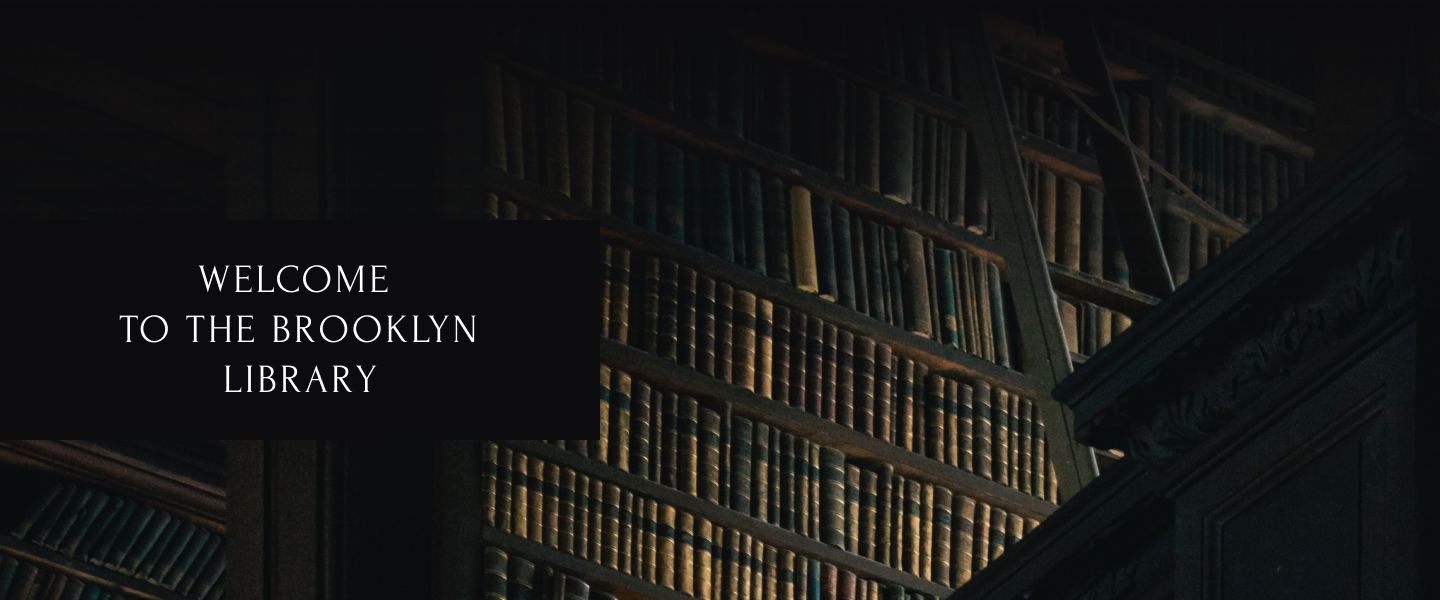
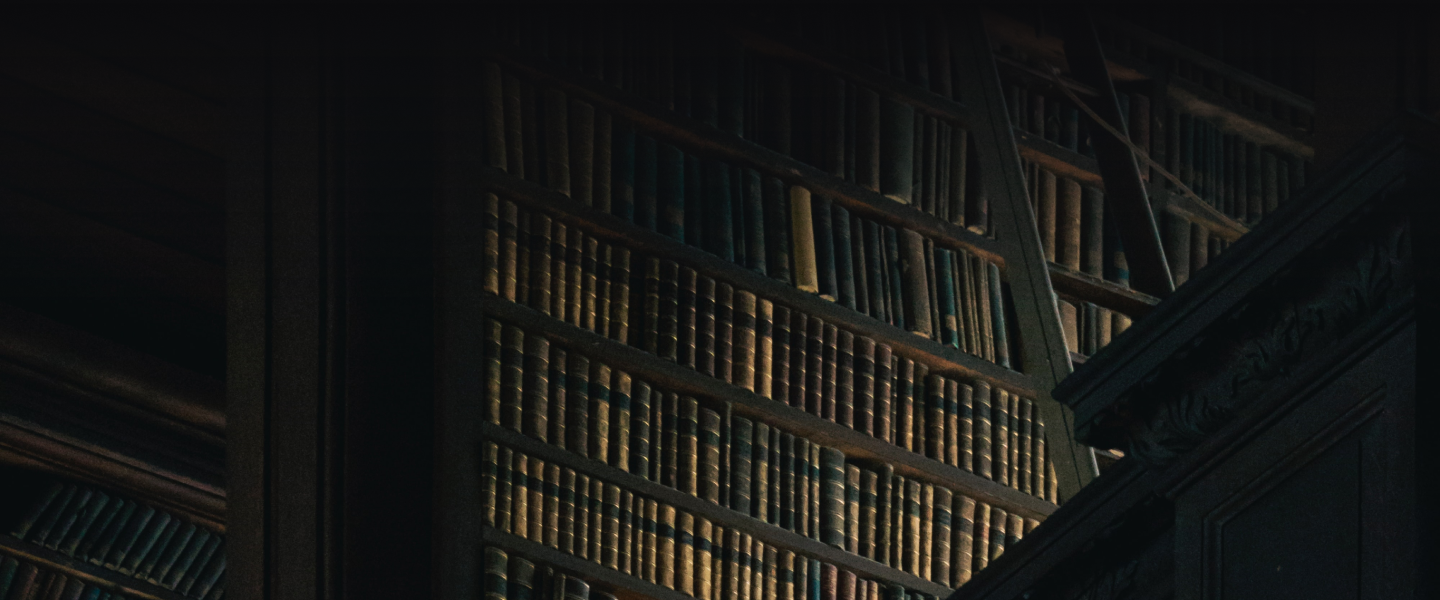
feat: add section welcome and modified section head

diff --git a/library/index.html b/library/index.html
@@ -8,34 +8,33 @@
   </head>
   <body>
     <header class="header">
-      <div class="container header">
-        <div class="brooklyn">Brooklyn Public Library</div>
+      <div class="container header-container">
+        <h1 class="brooklyn">Brooklyn Public Library</h1>
         <div class="navigation">
           <nav class="nav">
             <ul class="nav-list">
-              <li>About</li>
-              <li>Favorites</li>
-              <li>Coffee shop</li>
-              <li>Contacts</li>
-              <li>Library Card</li>
-              <li>
-                <a href="/">
-                  <img src="./assets/svg/icon_profile.svg" alt="" />
-                </a>
-              </li>
+              <li class="items">About</li>
+              <li class="items">Favorites</li>
+              <li class="items">Coffee shop</li>
+              <li class="items">Contacts</li>
+              <li class="items">Library Card</li>
             </ul>
           </nav>
+
+          <a class="icons" href="/">
+            <img src="./assets/svg/icon_profile.svg" alt="" />
+          </a>
         </div>
       </div>
     </header>
     <main class="main">
-		<div class="container main">
-			<section class="welcome">
-				<img src="./assets/img/Welcome.png" alt="">
-			</section>
-			<section class="about"></section>
-		</div>
-	</main>
+      <div class="container main-container">
+        <section class="welcome">
+          <div class="welcome-brooklyn">Welcome <br> to the Brooklyn <br> Library</div>
+        </section>
+        <section class="about"></section>
+      </div>
+    </main>
     <footer></footer>
   </body>
 </html>

diff --git a/library/style.css b/library/style.css
@@ -3,32 +3,78 @@ body {
   padding: 0px;
 }
 
-.brooklyn {
-  padding: 20px 454px 20px 20px;
-  font-size: 30px;
-
-}
-
-.header {
-  background-color: #0c0c0e;
-  color: #ffffff;
- 
-}
 .container {
   max-width: 1440px;
   margin: 0 auto;
 }
 
-
-.nav {
-  /* display: block; */
-  /* padding: 20px 0 20px 0; */
+.header {
+  background-color: #0c0c0e;
+  color: #ffffff;
 }
 
+.header-container {
+  display: flex;
+  justify-content: space-between;
+  line-height: 30px;
+}
+
+.brooklyn {
+  font-size: 30px;
+  margin: 20px 0px 20px 20px;
+  flex: 0 1 50%;
+}
+
+.navigation {
+  display: flex;
+  flex: 0 1 50%;
+}
+.nav{
+	margin-right: 40px;
+}
 .nav-list {
   display: flex;
-  justify-content: flex-end;
+  /* justify-content: flex-end; */
   align-items: center;
   list-style: none;
   font-size: 20px;
+  gap: 30px;
+}
+
+.items:hover {
+  text-decoration: underline;
+  cursor: pointer;
+}
+
+.icons {
+  margin: 20px 31px 20px 0px;
+  
+}
+
+/* .items:nth-child(6){
+	margin-left: 10px;
+	margin-right: 31px;
+	
+} */
+
+
+.welcome{
+	background: url("./assets/img/Welcome.png") no-repeat center center;
+	height: 600px;
+	display: flex;
+}
+
+.welcome-brooklyn{
+ width: 600px;
+ height: 220px;
+ background-color: #0C0C0E;
+ font-size: 40px;
+ color:#FFFFFF;
+ text-transform: uppercase;
+ margin-top: 220px;
+ margin-bottom: 160px;
+ display: flex;
+ align-items: center;
+ justify-content: center;
+ text-align: center;
 }
